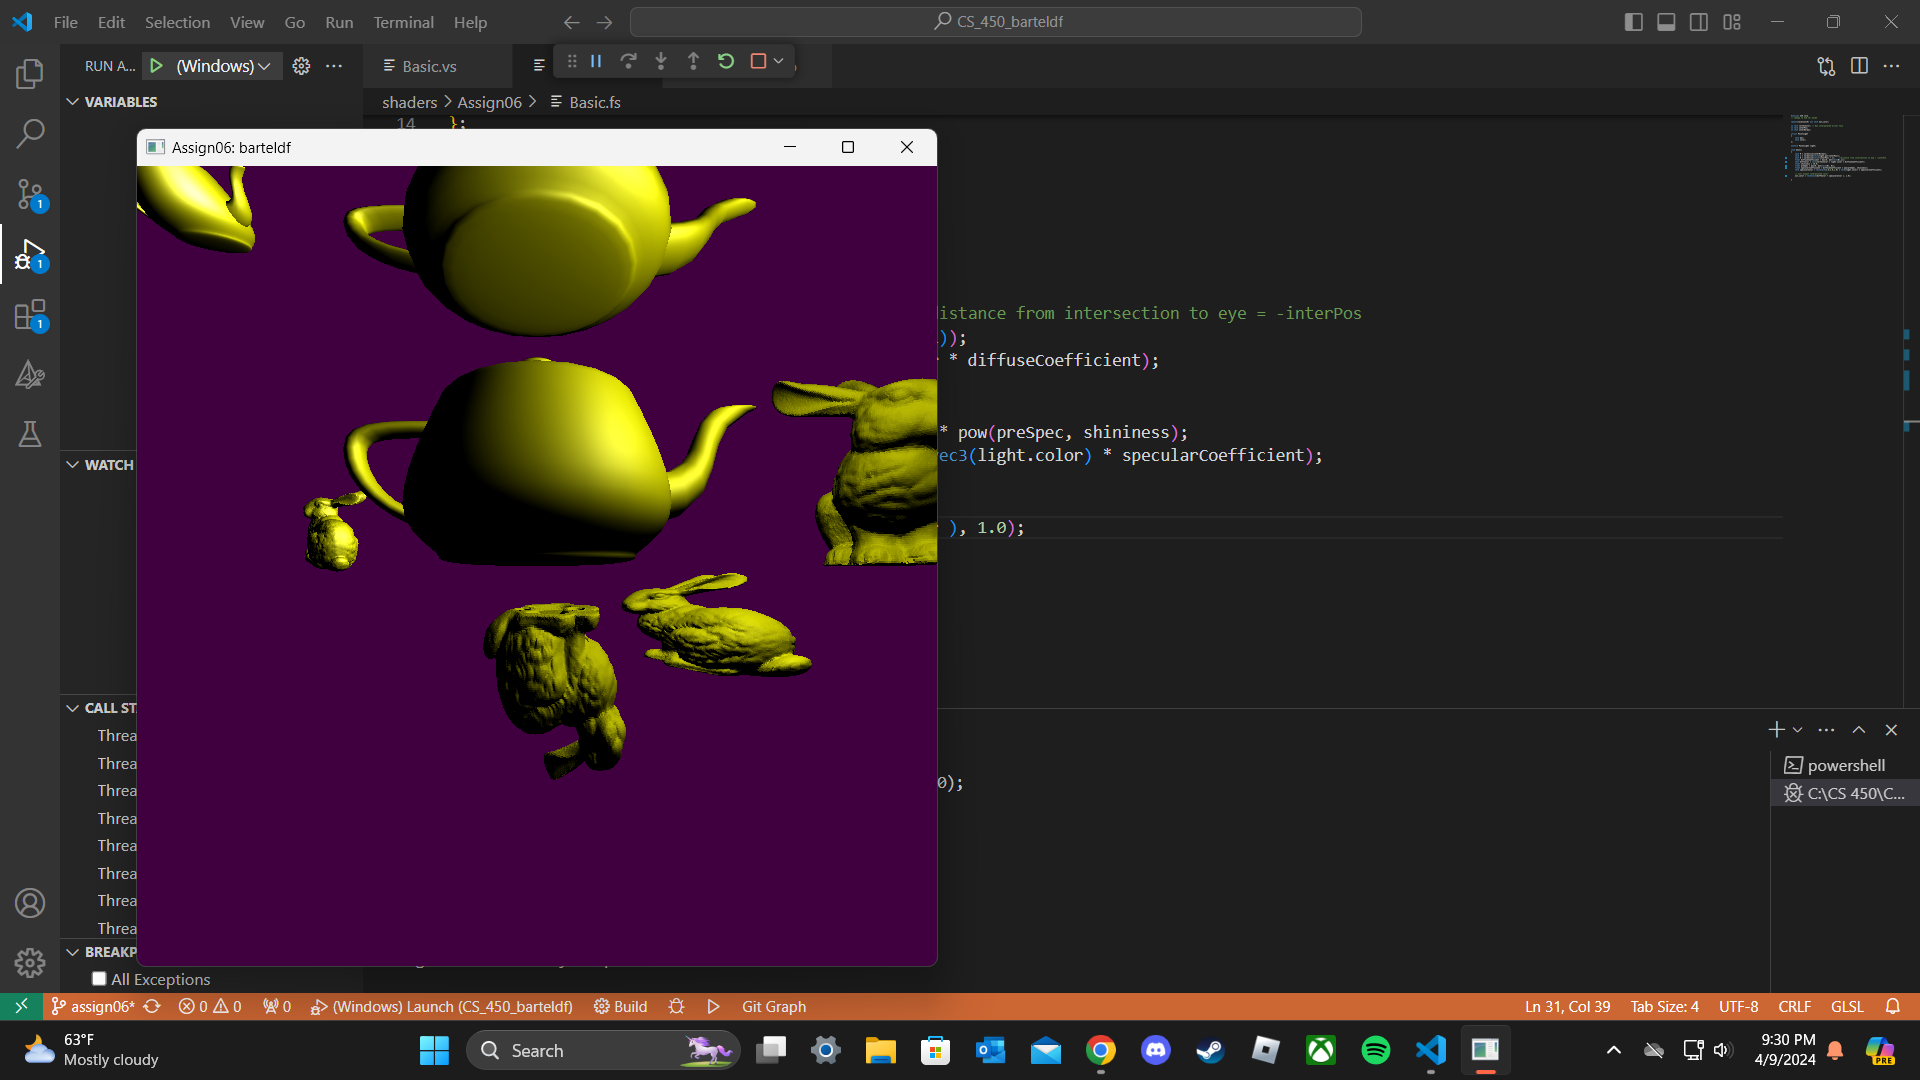
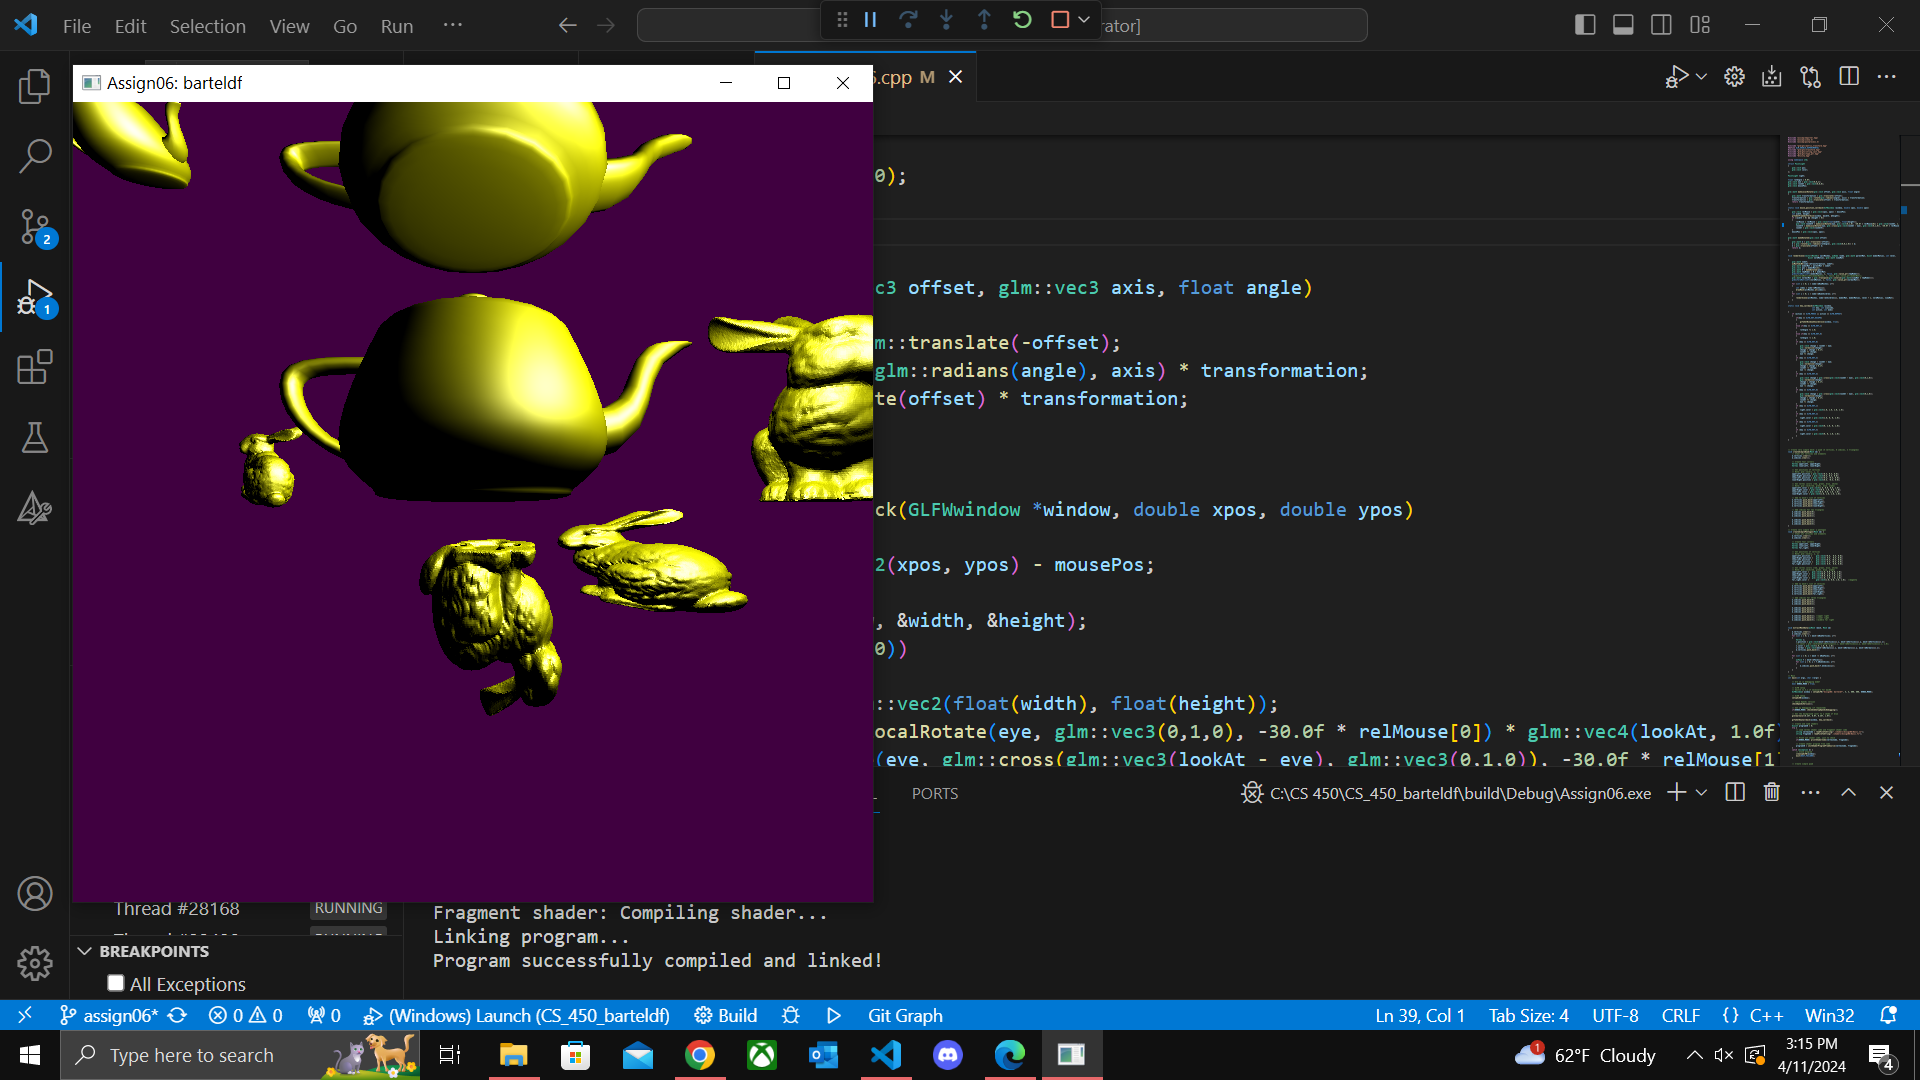
Updated screenshot and fixed camera turn direction

diff --git a/src/app/Assign06.cpp b/src/app/Assign06.cpp
@@ -54,8 +54,8 @@ static void mouse_position_callback(GLFWwindow *window, double xpos, double ypos
 	if ((width > 0) && (height > 0))
 	{
 		relMouse = relMouse / glm::vec2(float(width), float(height));
-		glm::vec4 lookAtV = makeLocalRotate(eye, glm::vec3(0,1,0), 30.0f * relMouse[0]) * glm::vec4(lookAt, 1.0f);
-		lookAtV = makeLocalRotate(eye, glm::cross(glm::vec3(lookAt - eye), glm::vec3(0,1,0)), 30.0f * relMouse[1]) * lookAtV;
+		glm::vec4 lookAtV = makeLocalRotate(eye, glm::vec3(0,1,0), -30.0f * relMouse[0]) * glm::vec4(lookAt, 1.0f);
+		lookAtV = makeLocalRotate(eye, glm::cross(glm::vec3(lookAt - eye), glm::vec3(0,1,0)), -30.0f * relMouse[1]) * lookAtV;
 		lookAt = glm::vec3(lookAtV);
 	}
 	mousePos = glm::vec2(xpos, ypos);
